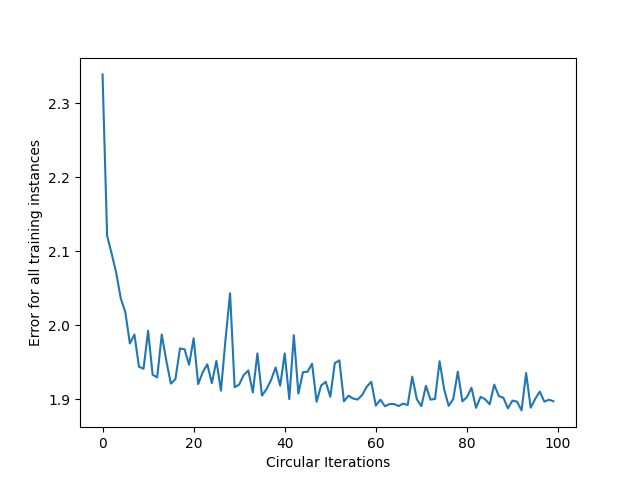
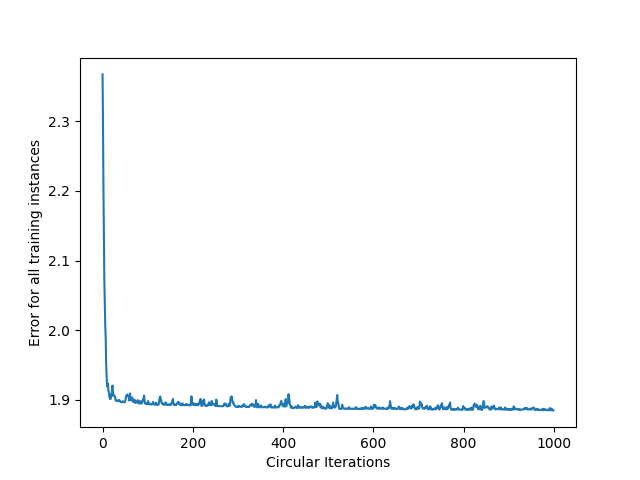
...

diff --git a/recursively_circular_ai_code.py b/recursively_circular_ai_code.py
@@ -12,7 +12,8 @@ class CircularNeuralNetwork:
         return 1 / (1 + np.exp(-x))
 
     def _sigmoid_deriv(self, x):
-        return math.sqrt(1+(self._sigmoid(x) * (1 - self._sigmoid(x)))**2)-1
+        return math.sqrt(100+(self._sigmoid(x) * (1 - self._sigmoid(x)))**2)-math.sqrt(100)
+        #return self._sigmoid(x) * (1 - self._sigmoid(x))
 
     def predict(self, input_vector):
         layer_1 = np.dot(input_vector, self.weights) + self.bias
@@ -160,7 +161,7 @@ targets = np.array([0, 1, 0, 1 ,0 ,1, 1 ,0])
 learning_rate = 0.1
 neural_network = CircularNeuralNetwork(learning_rate)
 
-training_error = neural_network.train(input_vectors, targets, 10000)
+training_error = neural_network.train(input_vectors, targets, 100000)
 
 plt.plot(training_error)
 plt.xlabel("Circular Iterations")
@@ -169,7 +170,7 @@ plt.savefig("circular_cumulative_error.png")
 
 neural_network = NeuralNetwork(learning_rate)
 
-training_error = neural_network.train(input_vectors, targets, 10000)
+training_error = neural_network.train(input_vectors, targets, 100000)
 
 plt.plot(training_error)
 plt.xlabel("Circular Iterations")
